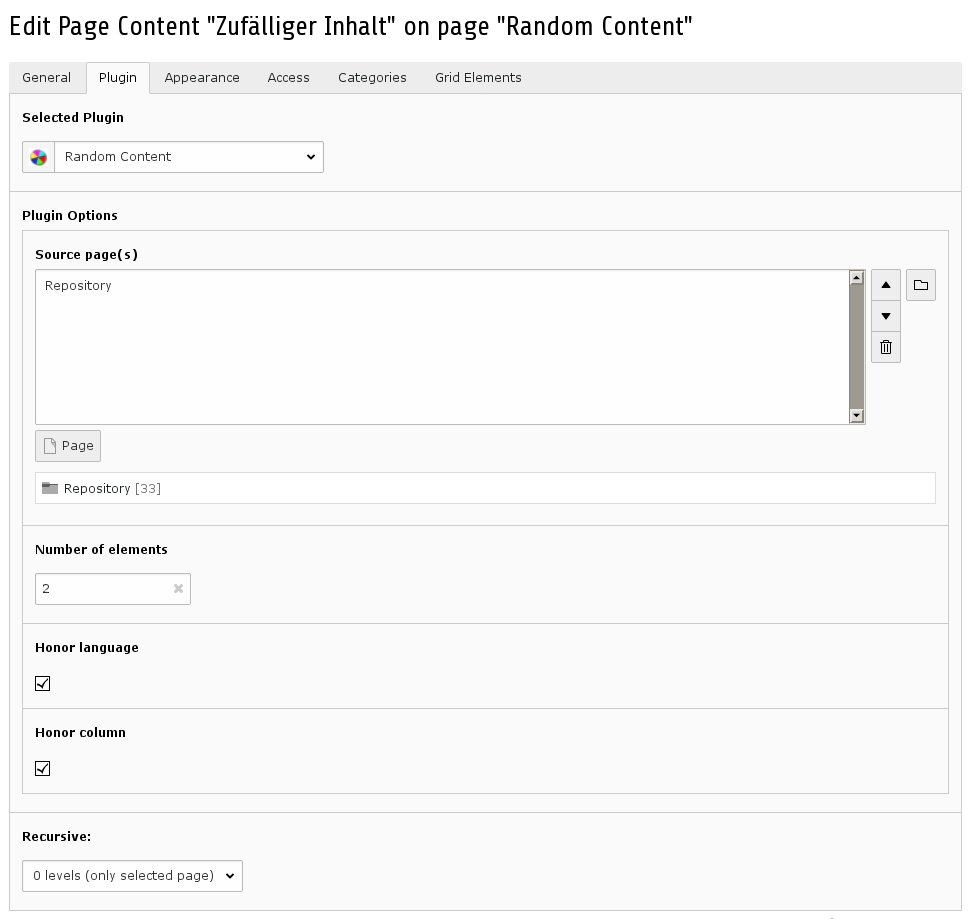
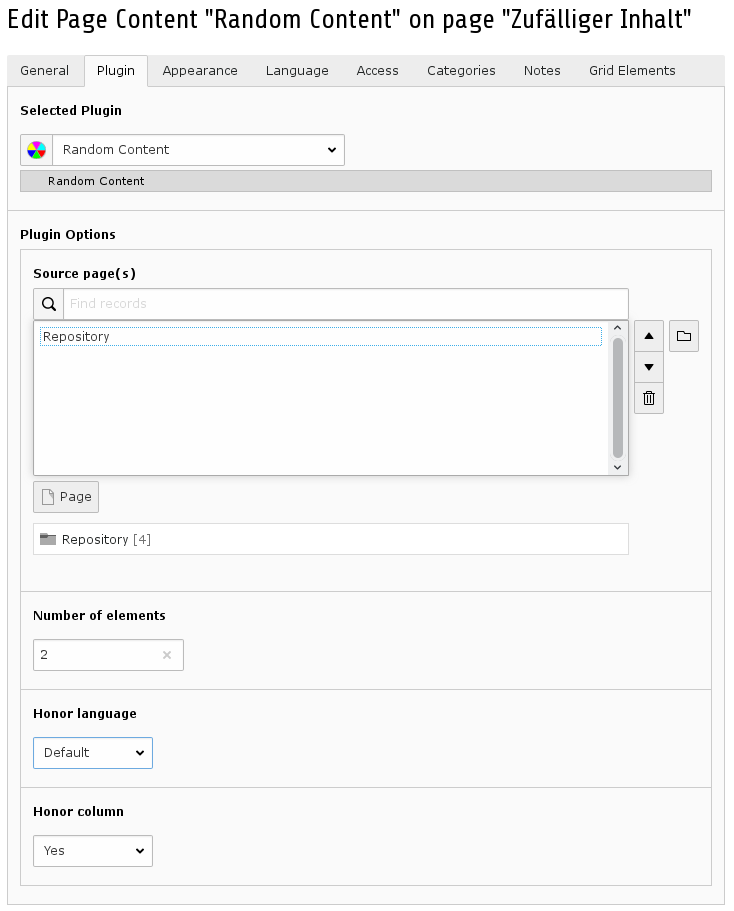
update documentation

diff --git a/Documentation/User/Index.rst b/Documentation/User/Index.rst
@@ -11,7 +11,7 @@ Setting up a random content element and its content repository
 
 1. Insert a content element of type “General Plugin” into your page.
 2. Choose “Random Content” as plugin type.
-3. Choose one or more pages as a source for the random content elements.
-4. Enter the number of content elements to be shown.
-5. Check the “Honor language” box to only use content elements of the current FE language.
-6. Check the “Honor Column” box to only use content elements of the same content column as the plugin itself.
+3. Choose one or more pages as a source for the random content elements. Leave empty for defaults from constants.
+4. Enter the number of content elements to be shown. Leave empty for defaults from constants.
+5. Choose the appropriate option from the “Honor language” select box to only use content elements of the current FE language.
+6. Choose the appropriate option from the  “Honor Column” select box to only use content elements of the same content column as the plugin itself.
